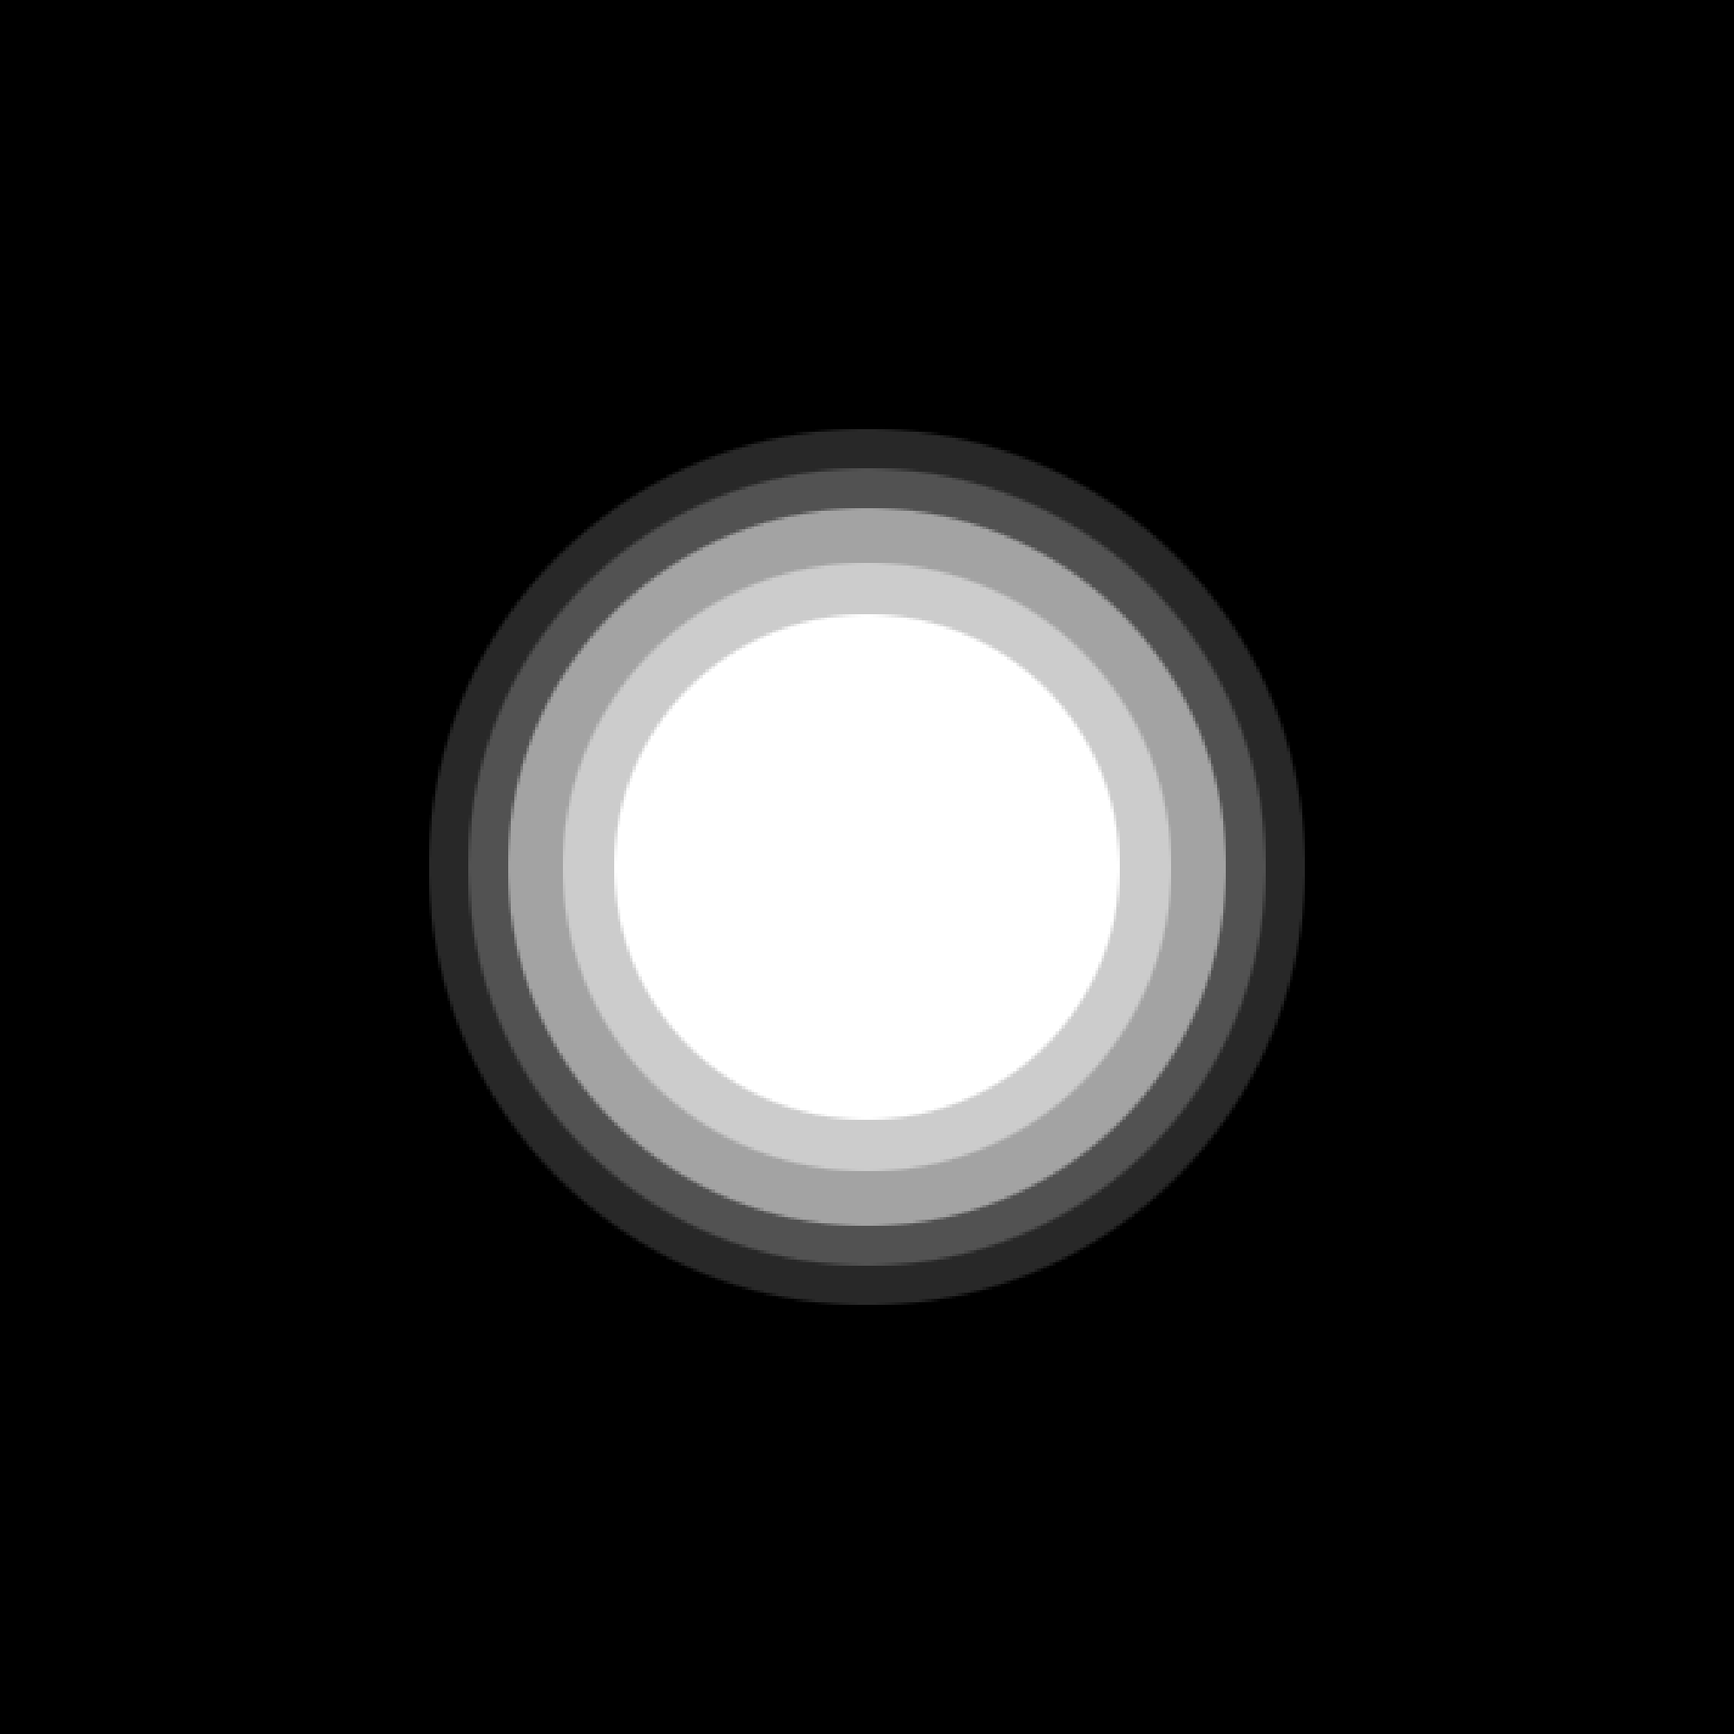
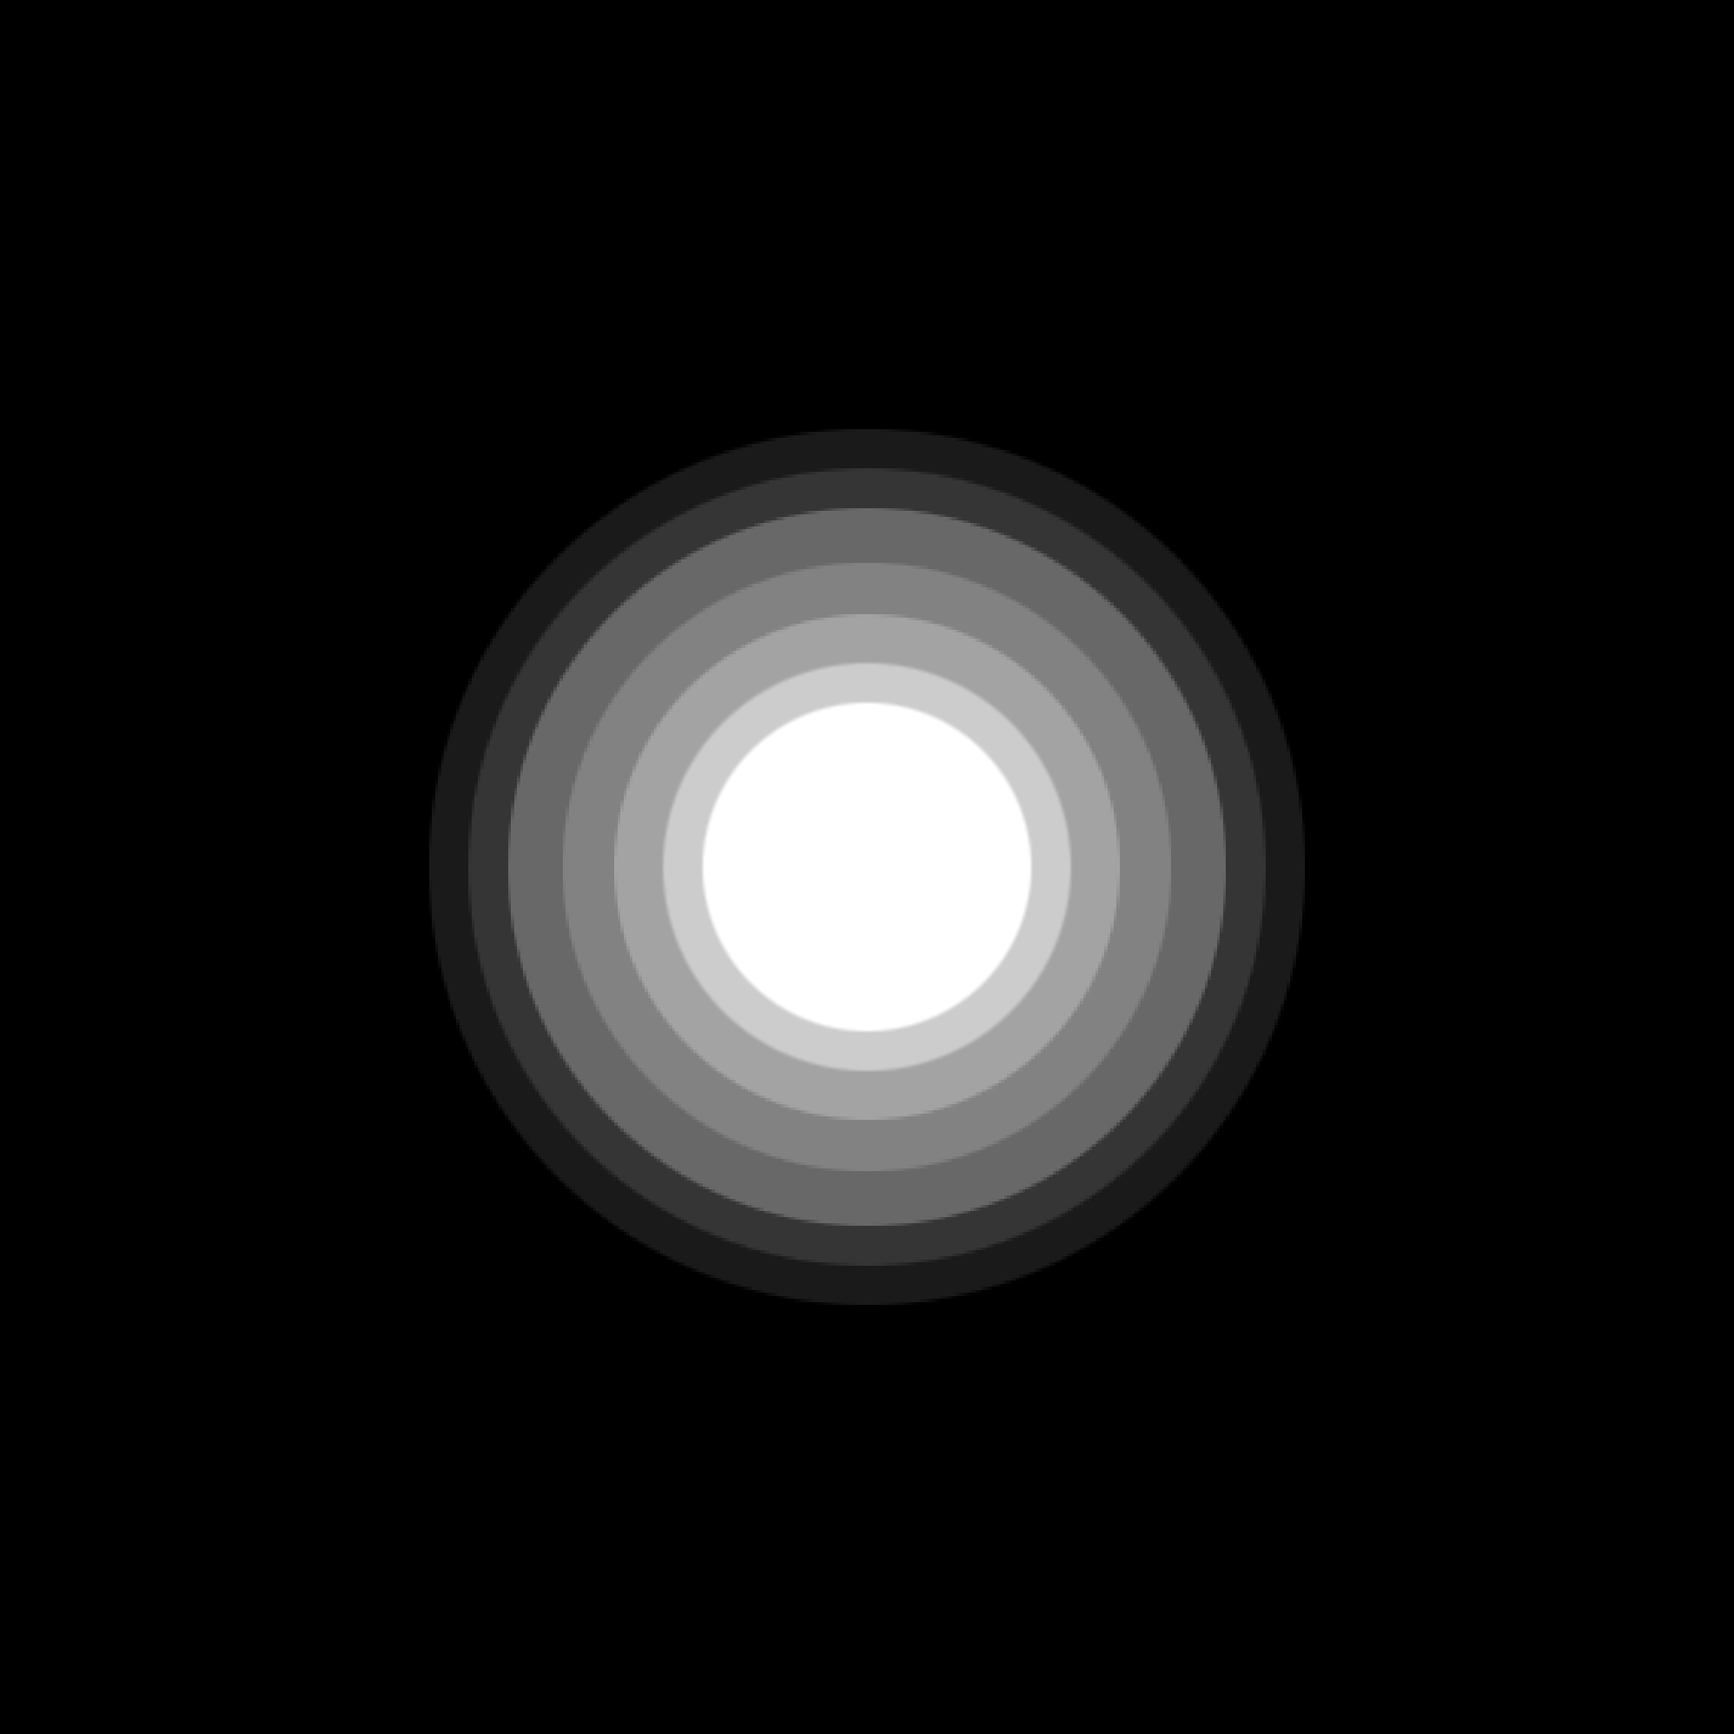
remove draggable ui

Changed region(s): [[0.2485, 0.2485, 0.7455, 0.7455]]

diff --git a/assets/css/base.css b/assets/css/base.css
@@ -1,1 +1,1 @@
-@import url(fonts.css);html,body,div,span,applet,object,iframe,h1,h2,h3,h4,h5,h6,p,blockquote,pre,a,abbr,acronym,address,big,cite,code,del,dfn,em,img,ins,kbd,q,s,samp,small,strike,strong,sub,sup,tt,var,b,u,i,center,dl,dt,dd,ol,ul,li,fieldset,form,label,legend,table,caption,tbody,tfoot,thead,tr,th,td,article,aside,canvas,details,embed,figure,figcaption,footer,header,hgroup,menu,nav,output,ruby,section,summary,time,mark,audio,video{margin:0;padding:0;border:0;font:inherit;font-size:100%;vertical-align:baseline}html{line-height:1}ol,ul{list-style:none}table{border-collapse:collapse;border-spacing:0}caption,th,td{text-align:left;font-weight:normal;vertical-align:middle}q,blockquote{quotes:none}q:before,q:after,blockquote:before,blockquote:after{content:"";content:none}a img{border:none}article,aside,details,figcaption,figure,footer,header,hgroup,menu,nav,section,summary{display:block}html{-webkit-text-size-adjust:100%;-moz-text-size-adjust:100%;-ms-text-size-adjust:100%}body{font-family:"Helvetica Neue","Arial",sans-serif;-webkit-font-smoothing:antialiased;font-size:16px;line-height:1;font-family:sans-serif;background:#fff}p{font-size:1em;line-height:1.4}a{text-decoration:none}.no-touch a:hover,.no-touch a:focus{text-decoration:underline}form{font-family:"Helvetica Neue","Arial",sans-serif;-webkit-font-smoothing:antialiased;font-size:1em;line-height:1}input,textarea{font-family:"Helvetica Neue","Arial",sans-serif;-webkit-font-smoothing:antialiased;padding:0;margin:0;background:none;border:none;width:auto;height:auto;zoom:1;overflow:hidden;-webkit-appearance:none}button{font-family:"Helvetica Neue","Arial",sans-serif;-webkit-font-smoothing:antialiased;border:none;padding:0;margin:0;cursor:pointer;-webkit-appearance:none}textarea{resize:vertical}label{display:block}img{-webkit-user-select:none;-ms-user-select:none;-o-user-select:none;user-select:none}.hidden{display:none !important;visibility:hidden}.clear{display:block;clear:both;zoom:1;height:0}.clear:before,.clear:after{content:" ";display:table;clear:both}.wrap{width:auto;margin:0 auto;position:relative}.submit{cursor:pointer}.left{float:left}.right{float:right}.grid-1-1,.grid-1-2,.grid-2-2,.grid-1-3,.grid-2-3,.grid-3-3,.grid-1-4,.grid-2-4,.grid-3-4,.grid-4-4,.grid-1-5,.grid-2-5,.grid-3-5,.grid-4-5,.grid-5-5,.grid-1-6,.grid-2-6,.grid-3-6,.grid-4-6,.grid-5-6,.grid-6-6{-webkit-box-sizing:content-box;-moz-box-sizing:content-box;box-sizing:content-box;float:left;display:block}.grid-1-1,.grid-2-2,.grid-3-3,.grid-4-4,.grid-5-5{width:100%}.grid-1-4{width:25%}.grid-1-2,.grid-2-4,.grid-3-6{width:50%}.grid-1-3,.grid-2-6{width:33.33333%}.grid-2-3,.grid-4-6{width:66.66667%}.grid-3-4{width:75%}.grid-1-5{width:20%}.grid-2-5{width:40%}.grid-3-5{width:60%}.grid-4-5{width:80%}.grid-1-6{width:16.66667%}.grid-5-6{width:83.33333%}body{overflow:hidden;background:#000}.legend{float:left;padding:10px;margin:30px;border-radius:5px;background:#fff;font-size:12px;line-height:14px}.outherGameZone{position:fixed;top:0;left:0;height:100%;width:100%;overflow:hidden;background:#000;cursor:move}#gameZone{position:relative;cursor:default}#gameZone #ui{position:fixed;top:0;left:0;height:100%;width:100%;z-index:997;overflow:hidden}#gameZone #ui p{padding:10px;background:#fff;float:left;color:#000;margin-right:5px;position:relative;z-index:99}#gameZone #ui p.clearMemory{display:none;background:red;color:#fff;cursor:pointer}#gameZone #ui #ambient-light{position:absolute;top:0;left:0;width:100%;height:100%;background:url(../images/ambient-light.png) center center no-repeat;z-index:1}#gameZone #playerTriggerLayer,#gameZone #actionLayer,#gameZone #decorationLayer,#gameZone #levelsLayer{z-index:1;position:absolute;top:0;left:0;height:100%;width:100%;margin:0}#gameZone #actionLayer{display:block;z-index:998}#mycursor{position:absolute;display:none;cursor:none;height:48px;width:48px;background:url(../images/cursors.png) 0 0 no-repeat;z-index:999}#mycursor.normal{background:url(../images/cursors.png) 0 0 no-repeat}#gameZone #levelsLayer{background:#b09f84}#gameZone .collisionWall,#gameZone .actionWall{position:absolute;height:72px;width:72px}#gameZone .actionWall{background:none}#gameZone #actionLayer .actionWall{background:none}#gameZone #actionLayer .actionWall.possiblesMoves{background:rgba(0,120,200,0.25);cursor:pointer}#gameZone #actionLayer .actionWall.impossiblesMoves{background:rgba(250,50,0,0.25);cursor:default}#gameZone #actionLayer .actionWall.digout{background:rgba(125,200,0,0.25);cursor:pointer}#gameZone #playerTriggerLayer{display:none;z-index:999}#gameZone #playerTrigger{position:absolute;top:0;left:0;height:72px;width:72px;background:rgba(0,0,0,0.2);margin:-46px 0 0 -30px;cursor:pointer;z-index:999}#gameZone #player{position:absolute;top:0;left:0;background:url(../images/player-shadow.png) center bottom no-repeat}#gameZone #player #playerSprite{position:absolute;bottom:0;left:0;height:96px;width:72px;background:url(../images/entities-sprites-16bit.png) 0 0 no-repeat;border-radius:5px}#gameZone #player .miningBar{display:none;-webkit-box-sizing:border-box;box-sizing:border-box;position:absolute;top:-25px;left:0;width:100%;height:10px;border:2px solid green;z-index:99;background:rgba(0,255,125,0.75);overflow:hidden}#gameZone #player .miningBar .progression{position:absolute;top:0;left:0;height:10px;background:green;z-index:99}#gameZone .collisionWall{background:url(../images/walls-sprites-16bit.png) 0 0 no-repeat}#gameZone .collisionWall .walls{display:block;position:absolute;width:72px;height:72px;left:0;bottom:0}#gameZone .collisionWall.solidWall .walls{height:144px;background:url(../images/walls-sprites-16bit.png) -144px -144px no-repeat}#gameZone .collisionWall.sand .walls,#gameZone .collisionWall.monster .walls,#gameZone .collisionWall.key .walls{background:url(../images/walls-sprites-16bit.png) 0 -72px no-repeat;height:72px}#gameZone .collisionWall.sandCleared .walls{background:url(../images/walls-sprites-16bit.png) 0 0 no-repeat}#gameZone .collisionWall.obstacle .walls{background:url(../images/walls-sprites-16bit.png) 0 -144px no-repeat;height:144px}#gameZone .collisionWall.entrance{background:url(../images/walls-sprites-16bit.png) -216px -72px no-repeat}#gameZone .collisionWall.exit{background:url(../images/walls-sprites-16bit.png) -144px -72px no-repeat}@media screen and (min-width: 768px){body{font-size:0.9em}}@media screen and (min-width: 960px){body{font-size:0.8em}.wrap{width:960px}}
+@import url(fonts.css);html,body,div,span,applet,object,iframe,h1,h2,h3,h4,h5,h6,p,blockquote,pre,a,abbr,acronym,address,big,cite,code,del,dfn,em,img,ins,kbd,q,s,samp,small,strike,strong,sub,sup,tt,var,b,u,i,center,dl,dt,dd,ol,ul,li,fieldset,form,label,legend,table,caption,tbody,tfoot,thead,tr,th,td,article,aside,canvas,details,embed,figure,figcaption,footer,header,hgroup,menu,nav,output,ruby,section,summary,time,mark,audio,video{margin:0;padding:0;border:0;font:inherit;font-size:100%;vertical-align:baseline}html{line-height:1}ol,ul{list-style:none}table{border-collapse:collapse;border-spacing:0}caption,th,td{text-align:left;font-weight:normal;vertical-align:middle}q,blockquote{quotes:none}q:before,q:after,blockquote:before,blockquote:after{content:"";content:none}a img{border:none}article,aside,details,figcaption,figure,footer,header,hgroup,menu,nav,section,summary{display:block}html{-webkit-text-size-adjust:100%;-moz-text-size-adjust:100%;-ms-text-size-adjust:100%}body{font-family:"Helvetica Neue","Arial",sans-serif;-webkit-font-smoothing:antialiased;font-size:16px;line-height:1;font-family:sans-serif;background:#fff}p{font-size:1em;line-height:1.4}a{text-decoration:none}.no-touch a:hover,.no-touch a:focus{text-decoration:underline}form{font-family:"Helvetica Neue","Arial",sans-serif;-webkit-font-smoothing:antialiased;font-size:1em;line-height:1}input,textarea{font-family:"Helvetica Neue","Arial",sans-serif;-webkit-font-smoothing:antialiased;padding:0;margin:0;background:none;border:none;width:auto;height:auto;zoom:1;overflow:hidden;-webkit-appearance:none}button{font-family:"Helvetica Neue","Arial",sans-serif;-webkit-font-smoothing:antialiased;border:none;padding:0;margin:0;cursor:pointer;-webkit-appearance:none}textarea{resize:vertical}label{display:block}img{-webkit-user-select:none;-ms-user-select:none;-o-user-select:none;user-select:none}.hidden{display:none !important;visibility:hidden}.clear{display:block;clear:both;zoom:1;height:0}.clear:before,.clear:after{content:" ";display:table;clear:both}.wrap{width:auto;margin:0 auto;position:relative}.submit{cursor:pointer}.left{float:left}.right{float:right}.grid-1-1,.grid-1-2,.grid-2-2,.grid-1-3,.grid-2-3,.grid-3-3,.grid-1-4,.grid-2-4,.grid-3-4,.grid-4-4,.grid-1-5,.grid-2-5,.grid-3-5,.grid-4-5,.grid-5-5,.grid-1-6,.grid-2-6,.grid-3-6,.grid-4-6,.grid-5-6,.grid-6-6{-webkit-box-sizing:content-box;-moz-box-sizing:content-box;box-sizing:content-box;float:left;display:block}.grid-1-1,.grid-2-2,.grid-3-3,.grid-4-4,.grid-5-5{width:100%}.grid-1-4{width:25%}.grid-1-2,.grid-2-4,.grid-3-6{width:50%}.grid-1-3,.grid-2-6{width:33.33333%}.grid-2-3,.grid-4-6{width:66.66667%}.grid-3-4{width:75%}.grid-1-5{width:20%}.grid-2-5{width:40%}.grid-3-5{width:60%}.grid-4-5{width:80%}.grid-1-6{width:16.66667%}.grid-5-6{width:83.33333%}body{overflow:hidden;background:#000}.legend{float:left;padding:10px;margin:30px;border-radius:5px;background:#fff;font-size:12px;line-height:14px}.outherGameZone{position:fixed;top:0;left:0;height:100%;width:100%;overflow:hidden;background:#000;cursor:move}#gameZone{position:relative;cursor:default;width:100%;height:100%}#gameZone #ui{position:fixed;top:0;left:0;height:100%;width:100%;z-index:997;overflow:hidden}#gameZone #ui p{padding:10px;background:#fff;float:left;color:#000;margin-right:5px;position:relative;z-index:99}#gameZone #ui p.clearMemory{display:none;background:red;color:#fff;cursor:pointer}#gameZone #ambient-light{position:absolute;top:50%;left:50%;width:2000px;height:2000px;margin:-1000px 0 0 -1000px;background:url(../images/ambient-light.png) center center no-repeat;z-index:996}#gameZone #playerTriggerLayer,#gameZone #actionLayer,#gameZone #decorationLayer,#gameZone #levelsLayer{z-index:1;position:absolute;margin:0}#gameZone #actionLayer{display:block;z-index:998}#mycursor{position:absolute;display:none;cursor:none;height:48px;width:48px;background:url(../images/cursors.png) 0 0 no-repeat;z-index:999}#mycursor.normal{background:url(../images/cursors.png) 0 0 no-repeat}#gameZone #levelsLayer{background:#b09f84}#gameZone .collisionWall,#gameZone .actionWall{position:absolute;height:72px;width:72px}#gameZone .actionWall{background:none}#gameZone #actionLayer .actionWall{background:none}#gameZone #actionLayer .actionWall.possiblesMoves{cursor:pointer}#gameZone #actionLayer .actionWall.impossiblesMoves{cursor:default}#gameZone #actionLayer .actionWall.digout{cursor:pointer}#gameZone #playerTriggerLayer{display:none;z-index:999}#gameZone #playerTrigger{position:absolute;top:0;left:0;height:72px;width:72px;background:rgba(0,0,0,0.2);margin:-46px 0 0 -30px;cursor:pointer;z-index:999}#gameZone #player{position:absolute;top:0;left:0;background:url(../images/player-shadow.png) center bottom no-repeat}#gameZone #player #playerSprite{position:absolute;bottom:0;left:0;height:96px;width:72px;background:url(../images/entities-sprites-16bit.png) 0 0 no-repeat;border-radius:5px}#gameZone #player .miningBar{display:none;-webkit-box-sizing:border-box;box-sizing:border-box;position:absolute;top:-25px;left:0;width:100%;height:10px;border:2px solid green;z-index:99;background:rgba(0,255,125,0.75);overflow:hidden}#gameZone #player .miningBar .progression{position:absolute;top:0;left:0;height:10px;background:green;z-index:99}#gameZone .collisionWall{background:url(../images/walls-sprites-16bit.png) 0 0 no-repeat}#gameZone .collisionWall .walls{display:block;position:absolute;width:72px;height:72px;left:0;bottom:0}#gameZone .collisionWall.solidWall .walls{height:144px;background:url(../images/walls-sprites-16bit.png) -144px -144px no-repeat}#gameZone .collisionWall.sand .walls,#gameZone .collisionWall.monster .walls,#gameZone .collisionWall.key .walls{background:url(../images/walls-sprites-16bit.png) 0 -72px no-repeat;height:72px}#gameZone .collisionWall.sandCleared .walls{background:url(../images/walls-sprites-16bit.png) 0 0 no-repeat}#gameZone .collisionWall.obstacle .walls{background:url(../images/walls-sprites-16bit.png) 0 -144px no-repeat;height:144px}#gameZone .collisionWall.entrance{background:url(../images/walls-sprites-16bit.png) -216px -72px no-repeat}#gameZone .collisionWall.exit{background:url(../images/walls-sprites-16bit.png) -144px -72px no-repeat}@media screen and (min-width: 768px){body{font-size:0.9em}}@media screen and (min-width: 960px){body{font-size:0.8em}.wrap{width:960px}}

diff --git a/assets/js/game.js b/assets/js/game.js
@@ -20,9 +20,6 @@ var Game = function(gameSettings, gameComponents) {
 		this.walls.init(this.settings, this.component, this);
 		this.player.init(this.settings, this.component, this);
 
-		// Drag and drop gamezone
-		this.component.DomWall.$game.draggable();
-
 		// Click on a floor bind event
 		this.component.DomWall.$actionLayer.find('.actionWall').on('click', function(event) {
 			event.preventDefault();
@@ -45,14 +42,16 @@ var Game = function(gameSettings, gameComponents) {
 
 	this.centerCamera = function() {
 
-		var cameraPosTop = Math.floor( (this.settings.gameHeight / 2) - (this.settings.currentLevel.length / 2) - this.player.y );
-		var cameraPosLeft =  Math.floor( (this.settings.gameWidth / 2) - (this.settings.currentLevel.length / 2) - this.player.x );
+		var cameraPosTop = Math.floor( (this.settings.gameHeight / 2) - (this.settings.currentLevel.length / 2) - this.player.y - (this.settings.baseMap / 2));
+		var cameraPosLeft =  Math.floor( (this.settings.gameWidth / 2) - (this.settings.currentLevel.length / 2) - this.player.x - (this.settings.baseMap / 2) );
 
 		// move the "camera"
 		this.component.DomWall.$allLayers.stop().animate({
 			top: cameraPosTop,
 			left: cameraPosLeft
-		},this.player.baseSpeed * 10, 'easeOutExpo');
+		},this.player.baseSpeed);
+
+		//'easeOutExpo'
 	};
 
 	this.UIUpdate = function() {

diff --git a/assets/sass/base.sass b/assets/sass/base.sass
@@ -42,6 +42,8 @@ body
 #gameZone
 	position: relative
 	cursor: default
+	width: 100%
+	height: 100%
 
 
 	//UI
@@ -72,14 +74,15 @@ body
 				cursor: pointer
 
 
-		#ambient-light
-			position: absolute
-			top: 0
-			left: 0
-			width: 100%
-			height: 100%
-			background: url(../images/ambient-light.png) center center no-repeat
-			z-index: 1
+	#ambient-light
+		position: absolute
+		top: 50%
+		left: 50%
+		width: 2000px
+		height: 2000px
+		margin: -1000px 0 0 -1000px
+		background: url(../images/ambient-light.png) center center no-repeat
+		z-index: 996
 
 
 
@@ -93,10 +96,6 @@ body
 	#levelsLayer
 		z-index: 1
 		position: absolute
-		top: 0
-		left: 0
-		height: 100%
-		width: 100%
 		margin: 0
 
 
@@ -149,21 +148,17 @@ body
 	.actionWall
 		background: none
 
-
 	#actionLayer
 		.actionWall
 			background: none
 
 			&.possiblesMoves
-				background: rgba(0,120,200,0.25)
 				cursor: pointer
 
 			&.impossiblesMoves
-				background: rgba(250,50,000,0.25)
 				cursor: default
 
 			&.digout
-				background: rgba(125,200,0,0.25)
 				cursor: pointer
 
 

diff --git a/index.html b/index.html
@@ -37,9 +37,9 @@
 					<p class="gold"></p>
 					<p class="key"></p>
 					<p class="clearMemory">Clear memory</p>
-
-					<div id="ambient-light"></div>
 				</div>
+
+				<div id="ambient-light"></div>
 
 				<!--Decors-->
 				<div id="levelsLayer">
@@ -58,7 +58,6 @@
 		<!-- SCRIPTS -->
 		<script src="assets/js/vendors/jquery-1.9.1.js"></script>
 		<script src="assets/js/vendors/jquery.easing.1.3.js"></script>
-		<script src="assets/js/vendors/jquery-ui-1.10.1.custom.min.js"></script>
 		<script src="assets/js/vendors/jquery.hotkeys.js"></script>
 		<!--<script src="assets/js/level-generator.js"></script>-->
 		<script src="assets/js/level-test.js"></script>

diff --git a/assets/js/level-test.js b/assets/js/level-test.js
@@ -27,10 +27,12 @@
 /*jshint -W046 */
 var level_test_0 = [
 
-	[996,996,996,996,996],
-	[996,996,996,996,996],
-	[996,996,998,996,996],
-	[996,996,996,996,996],
-	[996,996,996,996,996]
+	[996,996,996,996,996,996,996],
+	[996,996,996,996,996,996,996],
+	[996,996,996,996,996,996,996],
+	[996,996,996,998,996,996,996],
+	[996,996,996,996,996,996,996],
+	[000,996,996,996,996,996,996],
+	[000,000,996,996,996,996,996]
 ];
 /*jshint +W046 */
